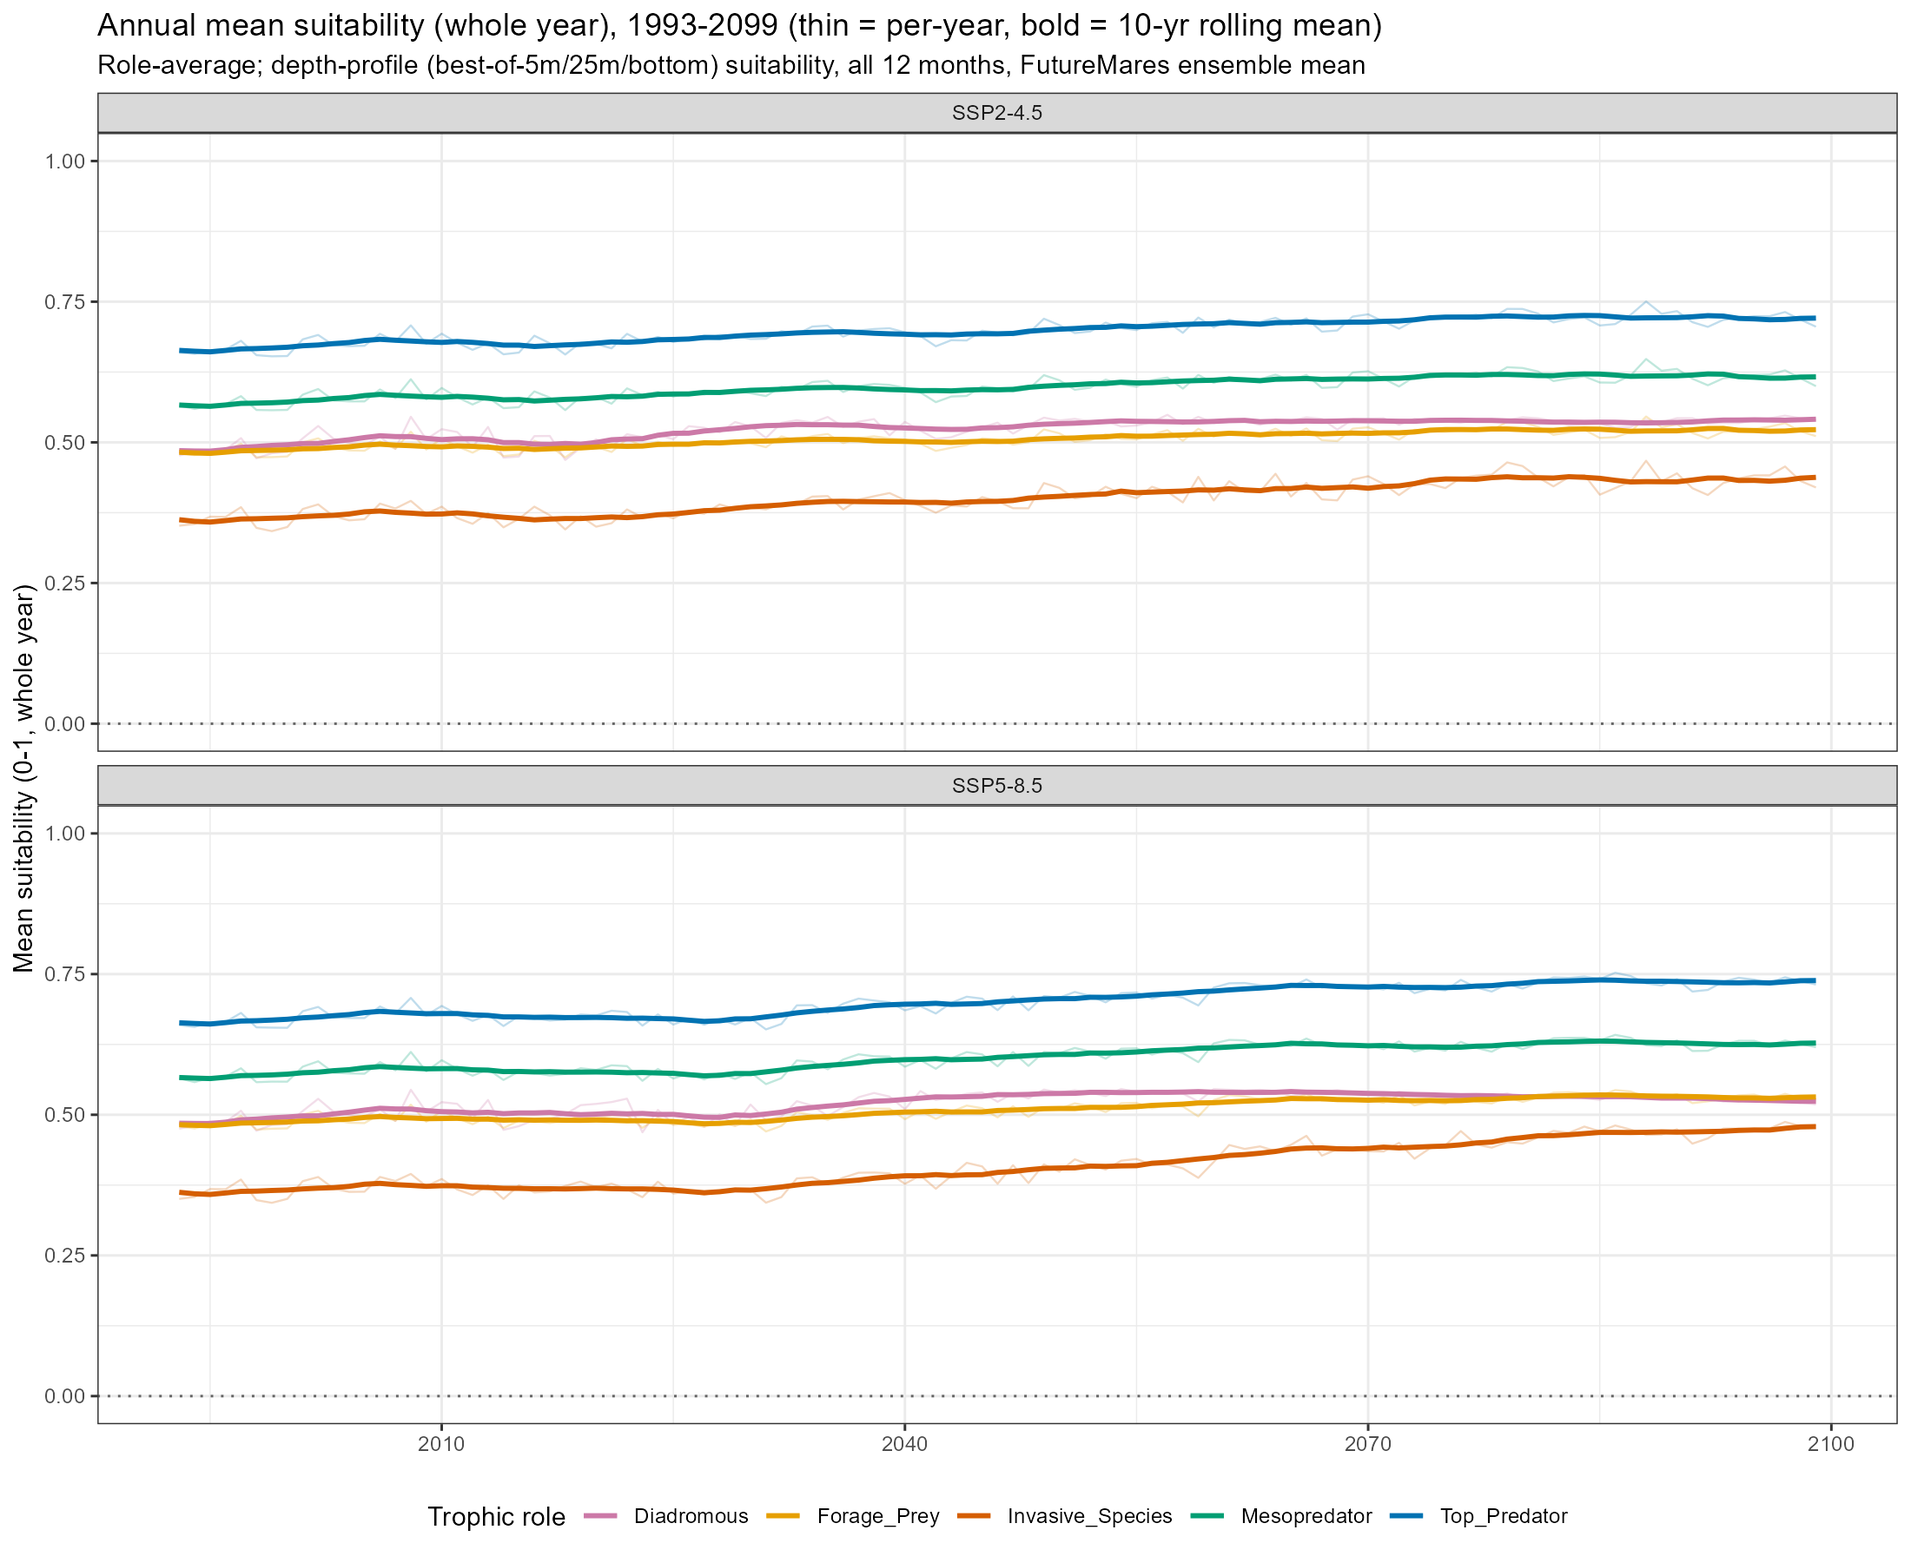
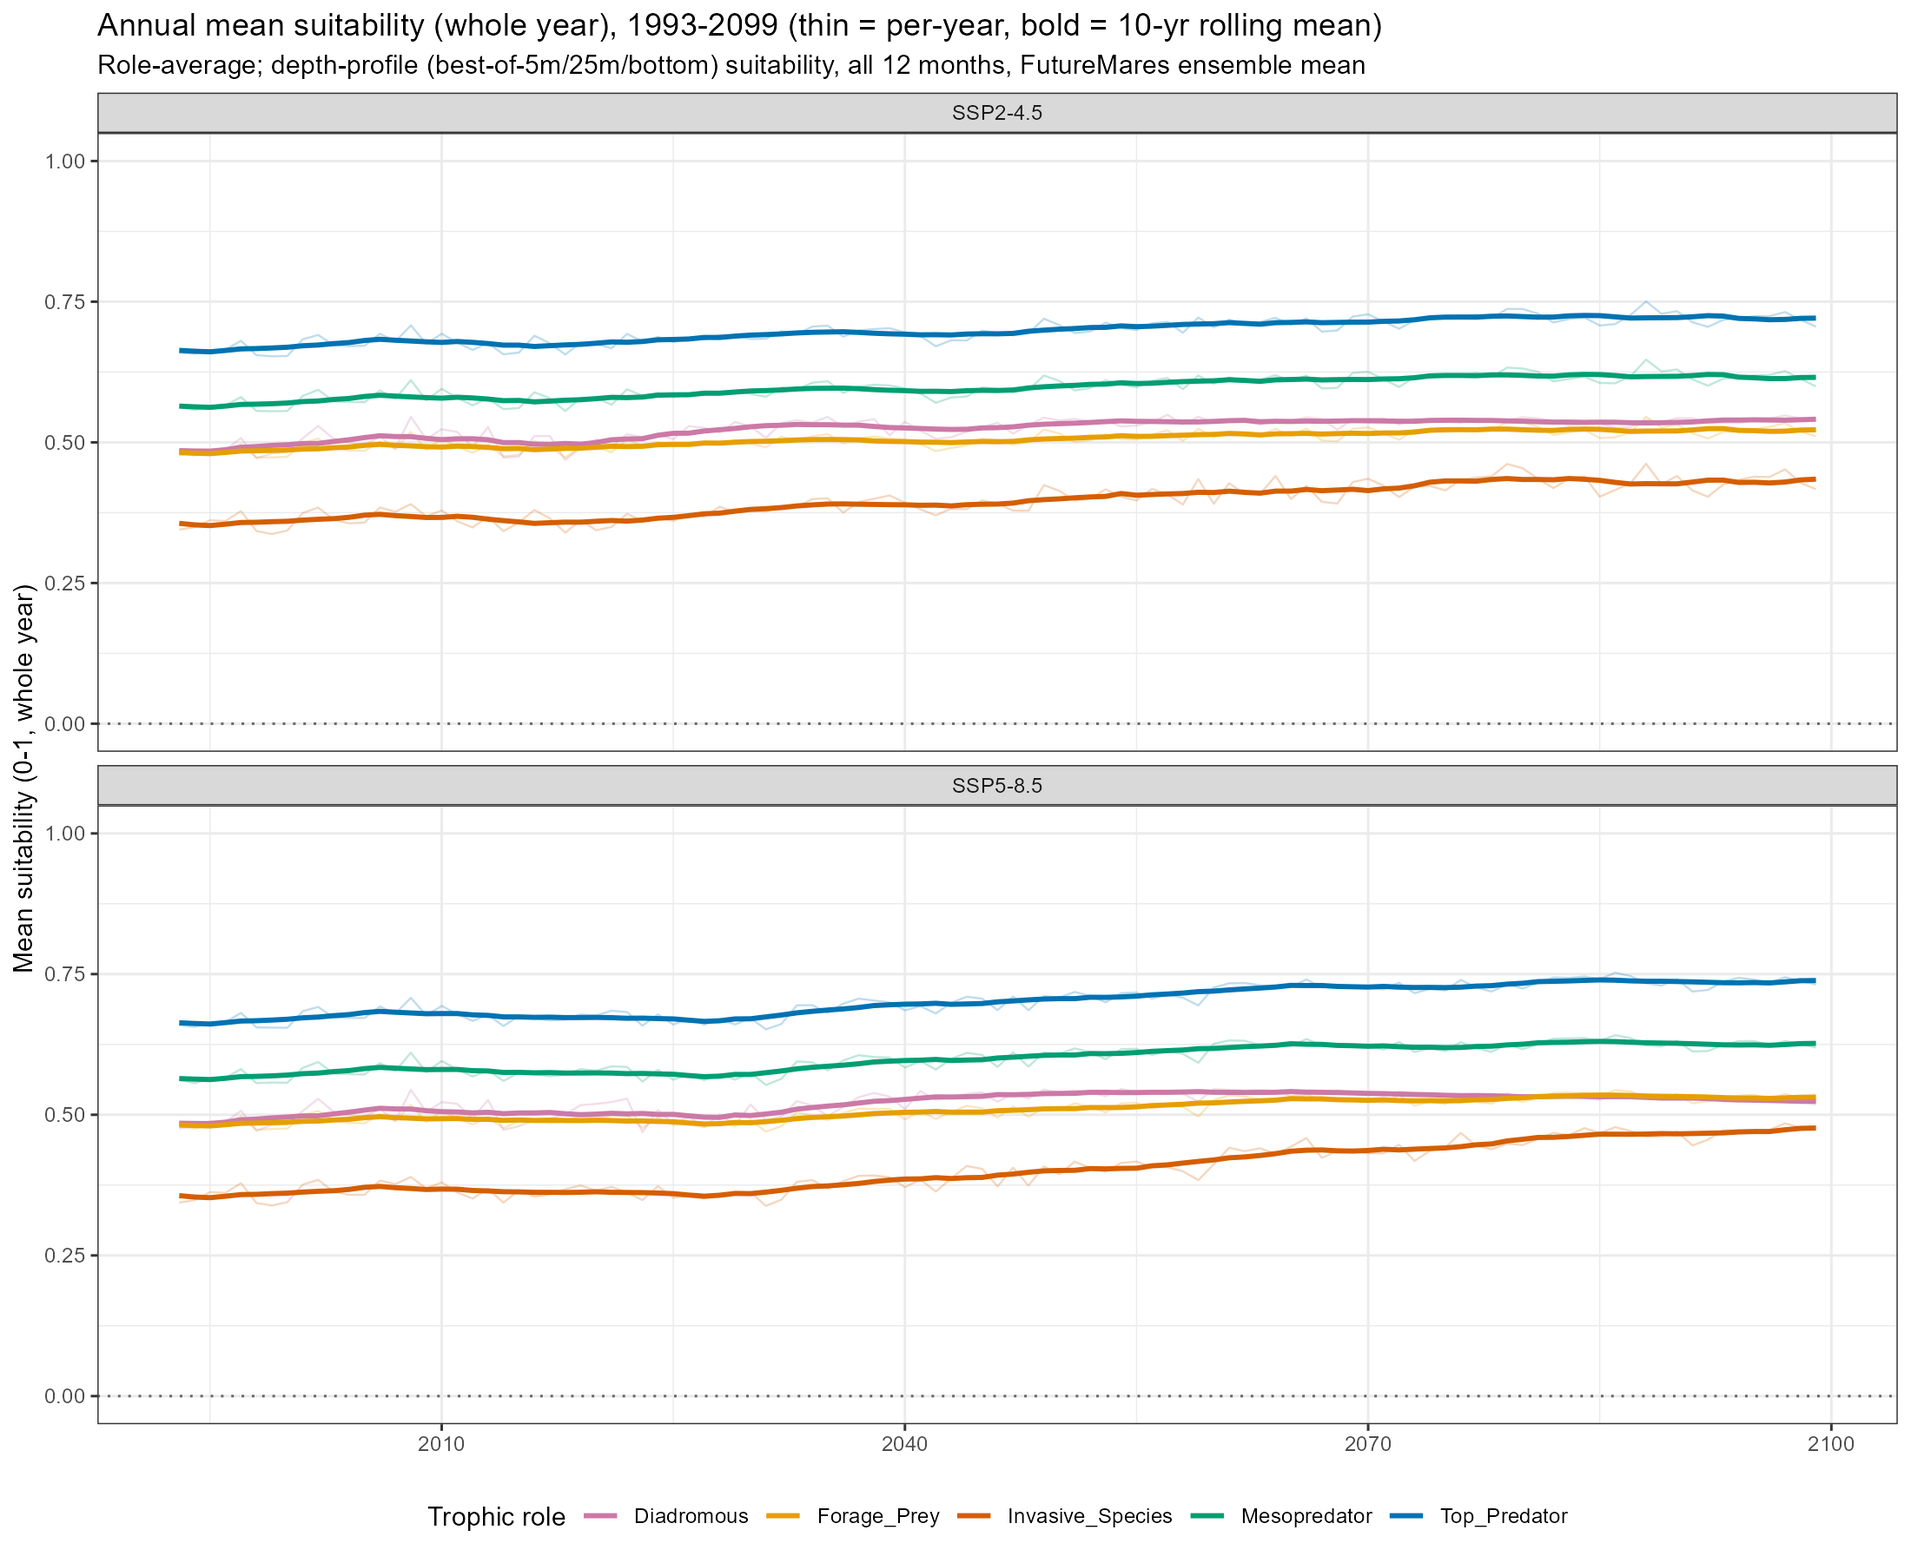
Update site with bottom-only crustacean fix and new species
- Crustacean species (crabs, lobster, shrimp) now score temperature/
  salinity at the seafloor only, not searched across the water column --
  they can't swim up to a warmer mid-water layer the way fish can.
- Added Pterois miles (Devil firefish/lionfish), a new invasive species.
- Added seasonal-cycle plots for all 71 species (previously only 3).
- Refreshed role-trend plots to match.

diff --git a/data/species.js b/data/species.js
@@ -1,73 +1,74 @@
 window.SPECIES_DATA = [
-  { common: "Baltic (vendace-type) whitefish", role: "Diadromous", prefix: "Baltic_vendace_type_whitefish", season: false },
-  { common: "European eel", role: "Diadromous", prefix: "European_eel", season: false },
-  { common: "Sea trout", role: "Diadromous", prefix: "Sea_trout", season: false },
-  { common: "Atlantic herring", role: "Forage_Prey", prefix: "Atlantic_herring", season: false },
-  { common: "Broadnosed pipefish", role: "Forage_Prey", prefix: "Broadnosed_pipefish", season: false },
-  { common: "Brown shrimp", role: "Forage_Prey", prefix: "Brown_shrimp", season: false },
-  { common: "European sprat", role: "Forage_Prey", prefix: "European_sprat", season: false },
-  { common: "Fifteen-spined stickleback", role: "Forage_Prey", prefix: "Fifteen_spined_stickleback", season: false },
-  { common: "Great sandeel", role: "Forage_Prey", prefix: "Great_sandeel", season: false },
-  { common: "Greater pipefish", role: "Forage_Prey", prefix: "Greater_pipefish", season: false },
-  { common: "Montagu's seasnail", role: "Forage_Prey", prefix: "Montagu_s_seasnail", season: false },
-  { common: "Nilsson's pipefish", role: "Forage_Prey", prefix: "Nilsson_s_pipefish", season: false },
-  { common: "Ninespine stickleback", role: "Forage_Prey", prefix: "Ninespine_stickleback", season: false },
-  { common: "Norway pout", role: "Forage_Prey", prefix: "Norway_pout", season: false },
-  { common: "Rock gunnel (butterfish)", role: "Forage_Prey", prefix: "Rock_gunnel_butterfish", season: false },
-  { common: "Sand goby", role: "Forage_Prey", prefix: "Sand_goby", season: false },
-  { common: "Small sandeel", role: "Forage_Prey", prefix: "Small_sandeel", season: false },
-  { common: "Snake pipefish", role: "Forage_Prey", prefix: "Snake_pipefish", season: false },
-  { common: "Straight-nosed pipefish", role: "Forage_Prey", prefix: "Straight_nosed_pipefish", season: false },
-  { common: "Transparent goby", role: "Forage_Prey", prefix: "Transparent_goby", season: false },
-  { common: "Worm pipefish", role: "Forage_Prey", prefix: "Worm_pipefish", season: false },
+  { common: "Baltic (vendace-type) whitefish", role: "Diadromous", prefix: "Baltic_vendace_type_whitefish", season: true },
+  { common: "European eel", role: "Diadromous", prefix: "European_eel", season: true },
+  { common: "Sea trout", role: "Diadromous", prefix: "Sea_trout", season: true },
+  { common: "Atlantic herring", role: "Forage_Prey", prefix: "Atlantic_herring", season: true },
+  { common: "Broadnosed pipefish", role: "Forage_Prey", prefix: "Broadnosed_pipefish", season: true },
+  { common: "Brown shrimp", role: "Forage_Prey", prefix: "Brown_shrimp", season: true },
+  { common: "European sprat", role: "Forage_Prey", prefix: "European_sprat", season: true },
+  { common: "Fifteen-spined stickleback", role: "Forage_Prey", prefix: "Fifteen_spined_stickleback", season: true },
+  { common: "Great sandeel", role: "Forage_Prey", prefix: "Great_sandeel", season: true },
+  { common: "Greater pipefish", role: "Forage_Prey", prefix: "Greater_pipefish", season: true },
+  { common: "Montagu's seasnail", role: "Forage_Prey", prefix: "Montagu_s_seasnail", season: true },
+  { common: "Nilsson's pipefish", role: "Forage_Prey", prefix: "Nilsson_s_pipefish", season: true },
+  { common: "Ninespine stickleback", role: "Forage_Prey", prefix: "Ninespine_stickleback", season: true },
+  { common: "Norway pout", role: "Forage_Prey", prefix: "Norway_pout", season: true },
+  { common: "Rock gunnel (butterfish)", role: "Forage_Prey", prefix: "Rock_gunnel_butterfish", season: true },
+  { common: "Sand goby", role: "Forage_Prey", prefix: "Sand_goby", season: true },
+  { common: "Small sandeel", role: "Forage_Prey", prefix: "Small_sandeel", season: true },
+  { common: "Snake pipefish", role: "Forage_Prey", prefix: "Snake_pipefish", season: true },
+  { common: "Straight-nosed pipefish", role: "Forage_Prey", prefix: "Straight_nosed_pipefish", season: true },
+  { common: "Transparent goby", role: "Forage_Prey", prefix: "Transparent_goby", season: true },
+  { common: "Worm pipefish", role: "Forage_Prey", prefix: "Worm_pipefish", season: true },
   { common: "Blue crab", role: "Invasive_Species", prefix: "Blue_crab", season: true },
-  { common: "Round goby (invasive)", role: "Invasive_Species", prefix: "Round_goby_invasive", season: false },
-  { common: "Ballan wrasse", role: "Mesopredator", prefix: "Ballan_wrasse", season: false },
-  { common: "Black goby", role: "Mesopredator", prefix: "Black_goby", season: false },
-  { common: "Brill", role: "Mesopredator", prefix: "Brill", season: false },
-  { common: "Brown crab (edible crab)", role: "Mesopredator", prefix: "Brown_crab_edible_crab", season: false },
-  { common: "Common dab", role: "Mesopredator", prefix: "Common_dab", season: false },
-  { common: "Common dragonet", role: "Mesopredator", prefix: "Common_dragonet", season: false },
-  { common: "Common sole", role: "Mesopredator", prefix: "Common_sole", season: false },
-  { common: "Corkwing wrasse", role: "Mesopredator", prefix: "Corkwing_wrasse", season: false },
-  { common: "Cuckoo wrasse", role: "Mesopredator", prefix: "Cuckoo_wrasse", season: false },
-  { common: "Eelpout", role: "Mesopredator", prefix: "Eelpout", season: false },
-  { common: "European flounder", role: "Mesopredator", prefix: "European_flounder", season: false },
-  { common: "European lobster", role: "Mesopredator", prefix: "European_lobster", season: false },
-  { common: "European plaice", role: "Mesopredator", prefix: "European_plaice", season: false },
-  { common: "Five-bearded rockling", role: "Mesopredator", prefix: "Five_bearded_rockling", season: false },
-  { common: "Fourbeard rockling", role: "Mesopredator", prefix: "Fourbeard_rockling", season: false },
+  { common: "Devil firefish (lionfish)", role: "Invasive_Species", prefix: "Devil_firefish_lionfish", season: true },
+  { common: "Round goby (invasive)", role: "Invasive_Species", prefix: "Round_goby_invasive", season: true },
+  { common: "Ballan wrasse", role: "Mesopredator", prefix: "Ballan_wrasse", season: true },
+  { common: "Black goby", role: "Mesopredator", prefix: "Black_goby", season: true },
+  { common: "Brill", role: "Mesopredator", prefix: "Brill", season: true },
+  { common: "Brown crab (edible crab)", role: "Mesopredator", prefix: "Brown_crab_edible_crab", season: true },
+  { common: "Common dab", role: "Mesopredator", prefix: "Common_dab", season: true },
+  { common: "Common dragonet", role: "Mesopredator", prefix: "Common_dragonet", season: true },
+  { common: "Common sole", role: "Mesopredator", prefix: "Common_sole", season: true },
+  { common: "Corkwing wrasse", role: "Mesopredator", prefix: "Corkwing_wrasse", season: true },
+  { common: "Cuckoo wrasse", role: "Mesopredator", prefix: "Cuckoo_wrasse", season: true },
+  { common: "Eelpout", role: "Mesopredator", prefix: "Eelpout", season: true },
+  { common: "European flounder", role: "Mesopredator", prefix: "European_flounder", season: true },
+  { common: "European lobster", role: "Mesopredator", prefix: "European_lobster", season: true },
+  { common: "European plaice", role: "Mesopredator", prefix: "European_plaice", season: true },
+  { common: "Five-bearded rockling", role: "Mesopredator", prefix: "Five_bearded_rockling", season: true },
+  { common: "Fourbeard rockling", role: "Mesopredator", prefix: "Fourbeard_rockling", season: true },
   { common: "Goldsinny wrasse", role: "Mesopredator", prefix: "Goldsinny_wrasse", season: true },
-  { common: "Great spider crab", role: "Mesopredator", prefix: "Great_spider_crab", season: false },
-  { common: "Greater weever (fjarsing)", role: "Mesopredator", prefix: "Greater_weever_fjarsing", season: false },
-  { common: "Green crab (shore crab)", role: "Mesopredator", prefix: "Green_crab_shore_crab", season: false },
-  { common: "Hooknose (pogge)", role: "Mesopredator", prefix: "Hooknose_pogge", season: false },
-  { common: "Lemon sole", role: "Mesopredator", prefix: "Lemon_sole", season: false },
-  { common: "Long rough dab", role: "Mesopredator", prefix: "Long_rough_dab", season: false },
-  { common: "Longspined bullhead", role: "Mesopredator", prefix: "Longspined_bullhead", season: false },
-  { common: "Lumpsucker", role: "Mesopredator", prefix: "Lumpsucker", season: false },
-  { common: "Norwegian topknot", role: "Mesopredator", prefix: "Norwegian_topknot", season: false },
-  { common: "Poor cod", role: "Mesopredator", prefix: "Poor_cod", season: false },
-  { common: "Pouting (bib)", role: "Mesopredator", prefix: "Pouting_bib", season: false },
-  { common: "Red mullet", role: "Mesopredator", prefix: "Red_mullet", season: false },
-  { common: "Rock cook", role: "Mesopredator", prefix: "Rock_cook", season: false },
-  { common: "Scaldfish", role: "Mesopredator", prefix: "Scaldfish", season: false },
-  { common: "Shorthorn sculpin", role: "Mesopredator", prefix: "Shorthorn_sculpin", season: false },
-  { common: "Tadpole fish", role: "Mesopredator", prefix: "Tadpole_fish", season: false },
-  { common: "Thicklip grey mullet", role: "Mesopredator", prefix: "Thicklip_grey_mullet", season: false },
-  { common: "Three-spined stickleback", role: "Mesopredator", prefix: "Three_spined_stickleback", season: false },
-  { common: "Topknot", role: "Mesopredator", prefix: "Topknot", season: false },
-  { common: "Whiting", role: "Mesopredator", prefix: "Whiting", season: false },
-  { common: "Yarrell's blenny", role: "Mesopredator", prefix: "Yarrell_s_blenny", season: false },
-  { common: "Atlantic cod", role: "Top_Predator", prefix: "Atlantic_cod", season: false },
-  { common: "Atlantic horse mackerel (scad)", role: "Top_Predator", prefix: "Atlantic_horse_mackerel_scad", season: false },
-  { common: "Atlantic mackerel", role: "Top_Predator", prefix: "Atlantic_mackerel", season: false },
-  { common: "Atlantic wolffish", role: "Top_Predator", prefix: "Atlantic_wolffish", season: false },
-  { common: "European seabass", role: "Top_Predator", prefix: "European_seabass", season: false },
-  { common: "Garfish", role: "Top_Predator", prefix: "Garfish", season: false },
-  { common: "Ling", role: "Top_Predator", prefix: "Ling", season: false },
-  { common: "Pollack", role: "Top_Predator", prefix: "Pollack", season: false },
-  { common: "Saithe (coalfish)", role: "Top_Predator", prefix: "Saithe_coalfish", season: false },
-  { common: "Turbot", role: "Top_Predator", prefix: "Turbot", season: false }
+  { common: "Great spider crab", role: "Mesopredator", prefix: "Great_spider_crab", season: true },
+  { common: "Greater weever (fjarsing)", role: "Mesopredator", prefix: "Greater_weever_fjarsing", season: true },
+  { common: "Green crab (shore crab)", role: "Mesopredator", prefix: "Green_crab_shore_crab", season: true },
+  { common: "Hooknose (pogge)", role: "Mesopredator", prefix: "Hooknose_pogge", season: true },
+  { common: "Lemon sole", role: "Mesopredator", prefix: "Lemon_sole", season: true },
+  { common: "Long rough dab", role: "Mesopredator", prefix: "Long_rough_dab", season: true },
+  { common: "Longspined bullhead", role: "Mesopredator", prefix: "Longspined_bullhead", season: true },
+  { common: "Lumpsucker", role: "Mesopredator", prefix: "Lumpsucker", season: true },
+  { common: "Norwegian topknot", role: "Mesopredator", prefix: "Norwegian_topknot", season: true },
+  { common: "Poor cod", role: "Mesopredator", prefix: "Poor_cod", season: true },
+  { common: "Pouting (bib)", role: "Mesopredator", prefix: "Pouting_bib", season: true },
+  { common: "Red mullet", role: "Mesopredator", prefix: "Red_mullet", season: true },
+  { common: "Rock cook", role: "Mesopredator", prefix: "Rock_cook", season: true },
+  { common: "Scaldfish", role: "Mesopredator", prefix: "Scaldfish", season: true },
+  { common: "Shorthorn sculpin", role: "Mesopredator", prefix: "Shorthorn_sculpin", season: true },
+  { common: "Tadpole fish", role: "Mesopredator", prefix: "Tadpole_fish", season: true },
+  { common: "Thicklip grey mullet", role: "Mesopredator", prefix: "Thicklip_grey_mullet", season: true },
+  { common: "Three-spined stickleback", role: "Mesopredator", prefix: "Three_spined_stickleback", season: true },
+  { common: "Topknot", role: "Mesopredator", prefix: "Topknot", season: true },
+  { common: "Whiting", role: "Mesopredator", prefix: "Whiting", season: true },
+  { common: "Yarrell's blenny", role: "Mesopredator", prefix: "Yarrell_s_blenny", season: true },
+  { common: "Atlantic cod", role: "Top_Predator", prefix: "Atlantic_cod", season: true },
+  { common: "Atlantic horse mackerel (scad)", role: "Top_Predator", prefix: "Atlantic_horse_mackerel_scad", season: true },
+  { common: "Atlantic mackerel", role: "Top_Predator", prefix: "Atlantic_mackerel", season: true },
+  { common: "Atlantic wolffish", role: "Top_Predator", prefix: "Atlantic_wolffish", season: true },
+  { common: "European seabass", role: "Top_Predator", prefix: "European_seabass", season: true },
+  { common: "Garfish", role: "Top_Predator", prefix: "Garfish", season: true },
+  { common: "Ling", role: "Top_Predator", prefix: "Ling", season: true },
+  { common: "Pollack", role: "Top_Predator", prefix: "Pollack", season: true },
+  { common: "Saithe (coalfish)", role: "Top_Predator", prefix: "Saithe_coalfish", season: true },
+  { common: "Turbot", role: "Top_Predator", prefix: "Turbot", season: true }
 ];
 

diff --git a/app.js b/app.js
@@ -45,17 +45,30 @@ document.addEventListener("DOMContentLoaded", () => {
     });
   });
 
-  // ---- animation tab ----
+  // ---- animation tab (gif + seasonal-cycle plot side by side) ----
   const animSelect = document.getElementById("anim-species");
   const animBadge = document.getElementById("anim-badge");
   const animGif = document.getElementById("anim-gif");
+  const seasonalImg = document.getElementById("anim-seasonal");
+  const seasonalMissing = document.getElementById("anim-seasonal-missing");
   buildGroupedSelect(animSelect, window.SPECIES_DATA);
 
   function updateAnim() {
     const prefix = animSelect.value;
+    const sp = window.SPECIES_DATA.find(s => s.prefix === prefix);
     animGif.src = `assets/animations/${prefix}.gif`;
     animGif.alt = `Monthly suitability animation for ${prefix}`;
     setBadge(animBadge, prefix, window.SPECIES_DATA);
+
+    if (sp && sp.season) {
+      seasonalImg.src = `assets/seasonal/${prefix}_seasonal_periodavg.png`;
+      seasonalImg.alt = `Seasonal cycle for ${prefix}`;
+      seasonalImg.style.display = "";
+      seasonalMissing.style.display = "none";
+    } else {
+      seasonalImg.style.display = "none";
+      seasonalMissing.style.display = "";
+    }
   }
   animSelect.addEventListener("change", updateAnim);
   if (animSelect.options.length > 0) updateAnim();

diff --git a/index.html b/index.html
@@ -26,8 +26,18 @@
       <label for="anim-species">Species:</label>
       <select id="anim-species"></select>
       <span id="anim-badge" class="role-badge"></span>
-      <p class="caption">Monthly suitability, 1994 vs 2004 vs 2014 vs 2024.</p>
-      <img id="anim-gif" class="result-img" alt="Monthly suitability animation">
+
+      <div class="side-by-side">
+        <div class="side-col">
+          <p class="caption">Monthly suitability, 1994 vs 2004 vs 2014 vs 2024.</p>
+          <img id="anim-gif" class="result-img" alt="Monthly suitability animation">
+        </div>
+        <div class="side-col">
+          <p class="caption">Seasonal cycle, averaged over 4-year periods (1993-2025).</p>
+          <img id="anim-seasonal" class="result-img" alt="Seasonal cycle plot">
+          <p id="anim-seasonal-missing" class="caption" style="display:none;">Not available for this species yet.</p>
+        </div>
+      </div>
     </section>
 
     <section id="tab-seasonal" class="tab-panel">

diff --git a/style.css b/style.css
@@ -52,6 +52,14 @@ nav.tabs {
 }
 
 .tab-panel { display: none; max-width: 1800px; margin: 0 auto 40px; }
+
+.side-by-side {
+  display: flex;
+  gap: 24px;
+  flex-wrap: wrap;
+  margin-top: 8px;
+}
+.side-col { flex: 1 1 480px; min-width: 0; }
 .tab-panel.active { display: block; }
 
 select {
